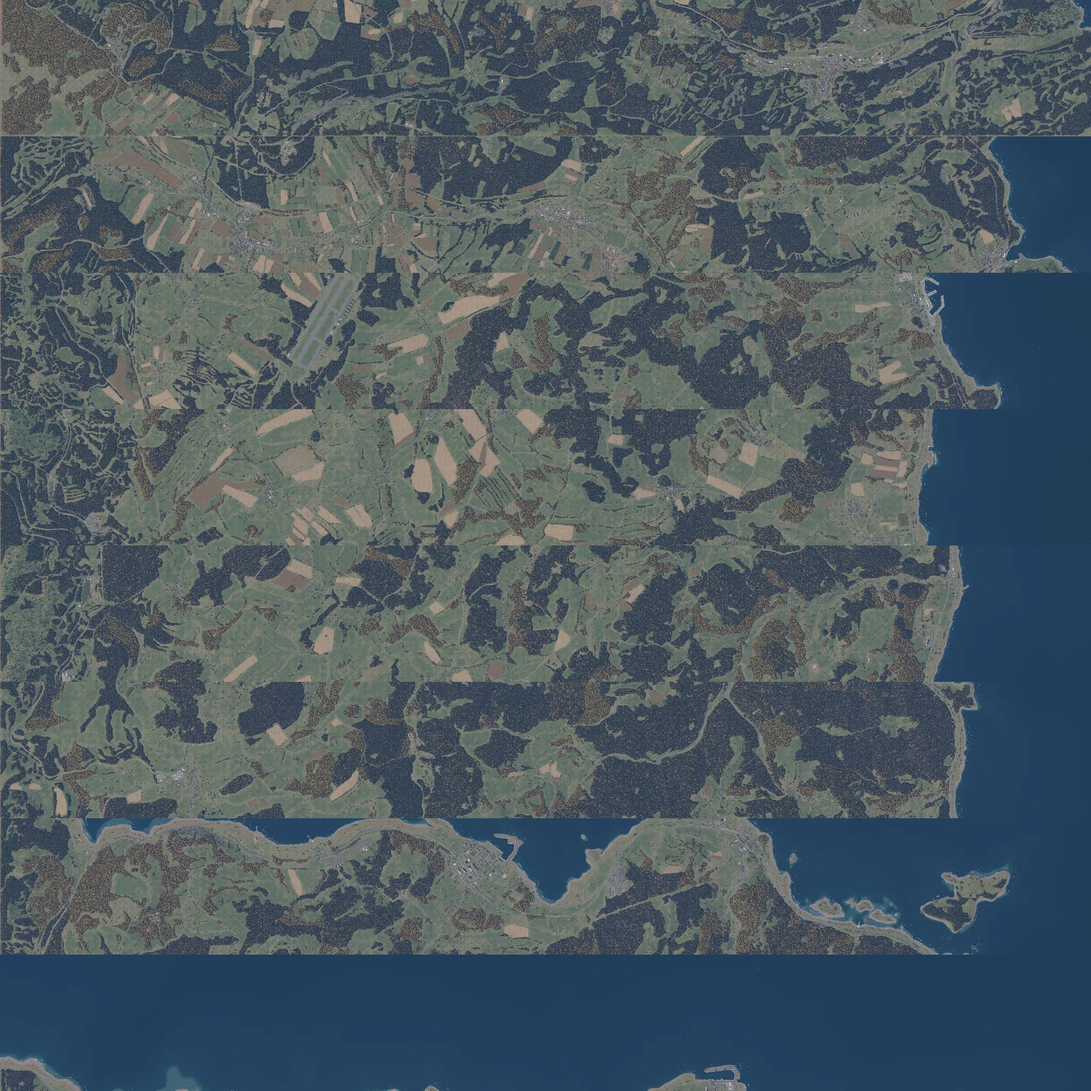
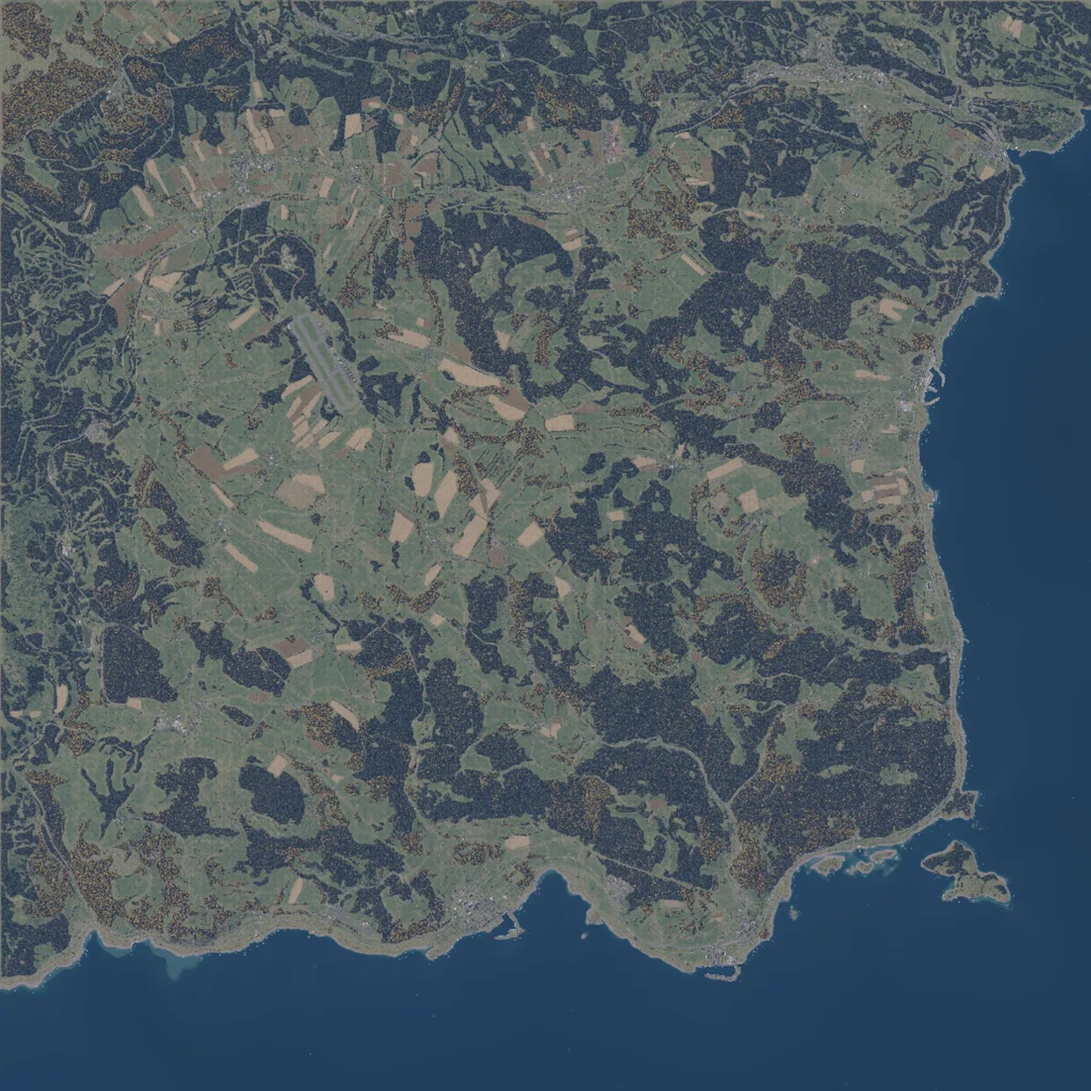
Replace torn maps with clean tacops renders; fix image georeferencing
The stitched maps were torn because tacops.gg serves wrong-but-valid (HTTP
200) fallback tiles for any bulk/automated tile fetch, and the imagery is
too self-similar for an edge-continuity check to catch the bad tiles.
Instead, capture what tacops actually renders on screen (which is correct)
by compositing the displayed Leaflet tiles by their on-screen position and
cropping to the map's world bounds via the map projection. Both Everon and
Chernarus are now clean, north-up, exactly georeferenced.

Also georeference the background image to the map's full world size with
origin (0,0) instead of the replay's captured terrain bounds. The image
spans the whole tacops map in game coordinates; scaling it to a smaller/
older terrain extent (e.g. a replay recorded before the map was expanded
northward) stretched the image and put the coastline in the wrong place.

diff --git a/src/ui/pages/ReplayToolPage.tsx b/src/ui/pages/ReplayToolPage.tsx
@@ -1883,18 +1883,22 @@ export function ReplayToolPage() {
     const mapId = resolveMapId(worldFile, worldSize);
     const def = getMapDef(mapId);
 
-    // Prefer the captured terrain bounds for georeferencing; fall back to the
-    // known world size for the detected map (origin at 0,0).
+    // When we have a known map image, georeference it to that map's full world
+    // size with origin (0,0) — the image spans the whole tacops map in game
+    // coordinates, so player positions (same origin) land correctly. We must NOT
+    // scale the image to the replay's captured terrain bounds: those can be a
+    // smaller/older version of the terrain (e.g. recorded before the map was
+    // expanded northward), which would stretch the image and misplace the coast.
     let world: WorldBounds | null = null;
-    if (terrain) {
+    if (def) {
+      world = { originX: 0, originZ: 0, size: def.worldSize };
+    } else if (terrain) {
+      // No map image: describe the terrain-raster fallback's own bounds.
       const sizeX = terrain.bbMax.x - terrain.bbMin.x;
       const sizeZ = terrain.bbMax.z - terrain.bbMin.z;
       if (Number.isFinite(sizeX) && Number.isFinite(sizeZ) && sizeX > 0 && sizeZ > 0) {
         world = { originX: terrain.bbMin.x, originZ: terrain.bbMin.z, size: Math.max(sizeX, sizeZ) };
       }
-    }
-    if (!world && def) {
-      world = { originX: 0, originZ: 0, size: def.worldSize };
     }
 
     return { imageUrl: def ? def.image : null, world };
